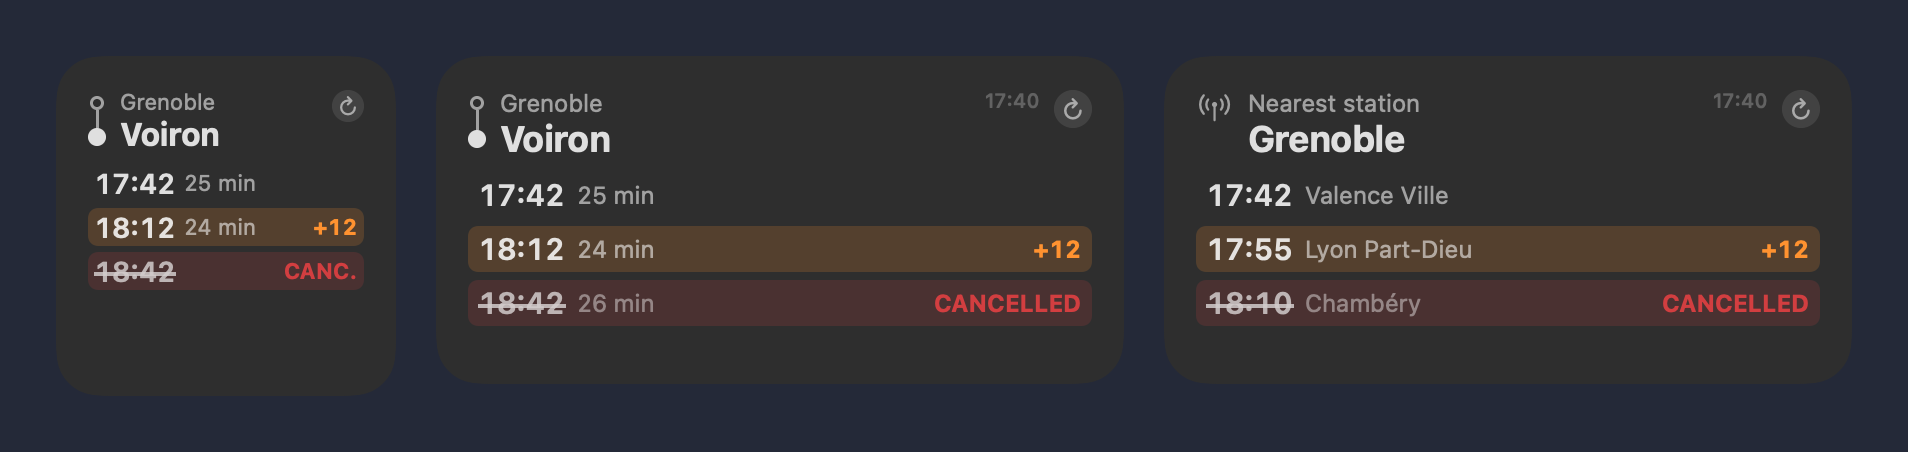
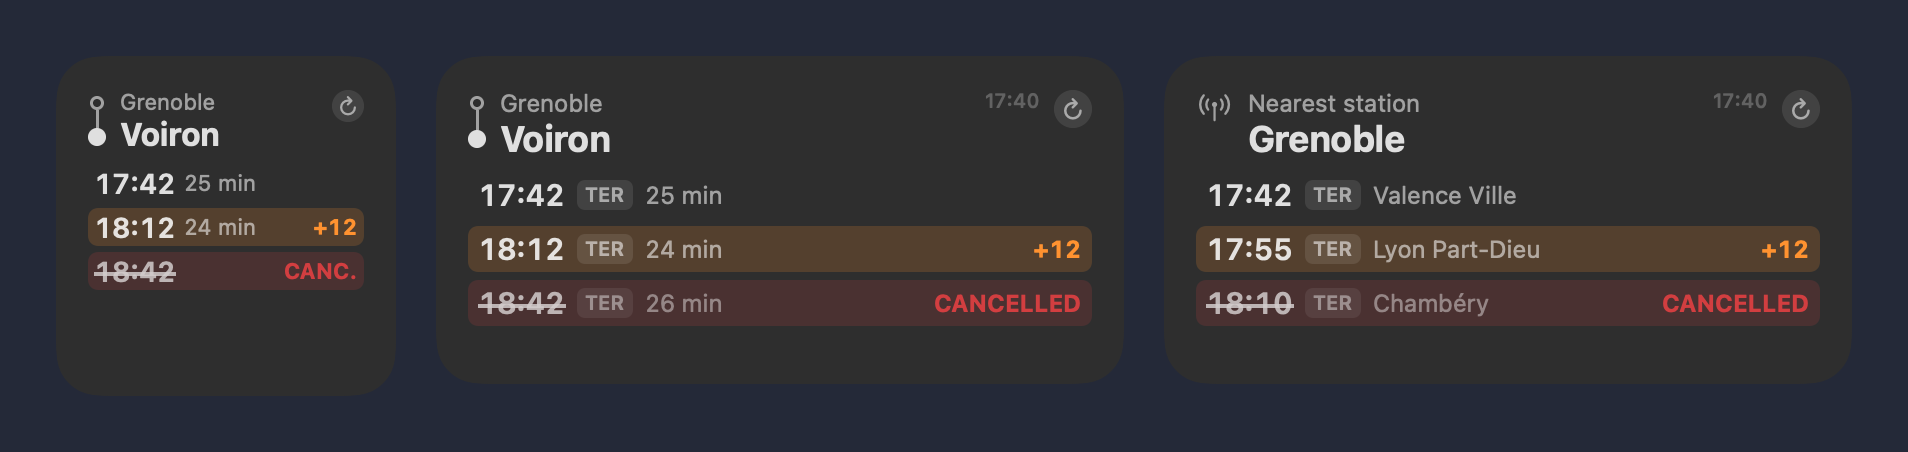
feat: name the service of each train on medium and large widgets
The same pair of stations is served by several kinds of train, and knowing
whether the next one is a TER or a TGV changes what you do with it. The small
widget keeps its width for the times.

The label cannot come from one field. On a real station board SNCF answers
`commercial_mode: "REGIONAURA"` for every TER — each region has its own brand
code — and `TGV INOUI` for the national ones, while `physical_mode` holds the
family: "TER / Intercités", "Train grande vitesse", "Car TER". So the brand is
read first when it is a national one (OUIGO, TGV, Intercités, Eurostar, Lyria,
TER) and the family finishes the job otherwise.

A coach replacing a train is labelled Car, never TER: "Car TER" contains both
words and saying TER would hide the substitution. Regional services running on
high-speed stock come out as TGV, which is what the platform board says too.

The board fixture now carries the real mix of modes rather than a tidy one.

diff --git a/Design/Screenshots/Sources/Screenshots/main.swift b/Design/Screenshots/Sources/Screenshots/main.swift
@@ -14,28 +14,28 @@ let grenoble = Station(id: "a", name: "Grenoble", latitude: 0, longitude: 0)
 let voiron = Station(id: "b", name: "Voiron", latitude: 0, longitude: 0)
 let now = at(17, 40)
 
-func train(_ h: Int, _ m: Int, _ duration: Int, delay: Int? = 0, cancelled: Bool = false) -> TrainDeparture {
+func train(_ h: Int, _ m: Int, _ duration: Int, delay: Int? = 0, cancelled: Bool = false, mode: String = "TER") -> TrainDeparture {
     TrainDeparture(scheduledDeparture: at(h, m), scheduledArrival: at(h, m).addingTimeInterval(TimeInterval(duration * 60)),
-                   delayMinutes: delay, isCancelled: cancelled, trainNumber: nil)
+                   mode: mode, delayMinutes: delay, isCancelled: cancelled, trainNumber: nil)
 }
 
 let trains = [
     train(17, 42, 25), train(18, 12, 24, delay: 12), train(18, 42, 26, cancelled: true),
-    train(19, 12, 25, delay: 23), train(19, 42, 25), train(20, 12, 24), train(20, 42, 26), train(21, 12, 25),
+    train(19, 12, 25, delay: 23), train(19, 42, 25, mode: "TGV"), train(20, 12, 24), train(20, 42, 26), train(21, 12, 25),
 ]
 let normal = DeparturesEntry(date: now, fetchedAt: now, board: .trip(Leg(from: grenoble, to: voiron)), state: .departures(trains))
 let noService = DeparturesEntry(date: now, fetchedAt: now, board: .trip(Leg(from: grenoble, to: voiron)), state: .noService)
 let lateNight = at(23, 40)
 let endOfService = DeparturesEntry(date: lateNight, fetchedAt: lateNight, board: .trip(Leg(from: grenoble, to: voiron)), state: .endOfService(firstTrain: at(5, 58).addingTimeInterval(86400)))
 
-func radarTrain(_ h: Int, _ m: Int, _ direction: String, delay: Int? = 0, cancelled: Bool = false) -> TrainDeparture {
-    TrainDeparture(scheduledDeparture: at(h, m), direction: direction, delayMinutes: delay, isCancelled: cancelled, trainNumber: nil)
+func radarTrain(_ h: Int, _ m: Int, _ direction: String, delay: Int? = 0, cancelled: Bool = false, mode: String = "TER") -> TrainDeparture {
+    TrainDeparture(scheduledDeparture: at(h, m), direction: direction, mode: mode, delayMinutes: delay, isCancelled: cancelled, trainNumber: nil)
 }
 
 let radar = DeparturesEntry(date: now, fetchedAt: now, board: .radar(grenoble), state: .departures([
     radarTrain(17, 42, "Valence Ville"), radarTrain(17, 55, "Lyon Part-Dieu", delay: 12),
-    radarTrain(18, 10, "Chambéry", cancelled: true), radarTrain(18, 24, "Annecy"),
-    radarTrain(18, 40, "Gap"), radarTrain(19, 02, "Lyon Perrache", delay: 23),
+    radarTrain(18, 10, "Chambéry", cancelled: true), radarTrain(18, 24, "Annecy", mode: "TGV"),
+    radarTrain(18, 40, "Gap", mode: "Car"), radarTrain(19, 02, "Lyon Perrache", delay: 23),
 ]))
 
 func size(_ family: WidgetFamily) -> CGSize {

diff --git a/SNCFCore/Sources/SNCFCore/NavitiaParser.swift b/SNCFCore/Sources/SNCFCore/NavitiaParser.swift
@@ -87,6 +87,7 @@ public enum NavitiaParser {
         return TrainDeparture(
             scheduledDeparture: departure,
             scheduledArrival: arrival,
+            mode: mode(commercial: info?.commercialMode, physical: info?.physicalMode),
             delayMinutes: delay(at: originStop, significantDelays: journey.status == "SIGNIFICANT_DELAYS"),
             isCancelled: cancelled,
             trainNumber: info?.tripShortName ?? info?.headsign
@@ -105,10 +106,29 @@ public enum NavitiaParser {
         return TrainDeparture(
             scheduledDeparture: departure,
             direction: info?.direction,
+            mode: mode(commercial: info?.commercialMode, physical: info?.physicalMode),
             delayMinutes: delay(at: stop, significantDelays: linked.contains { $0.severity?.effect == "SIGNIFICANT_DELAYS" }),
             isCancelled: isCancelled(linked, at: stop),
             trainNumber: info?.tripShortName ?? info?.headsign
         )
+    }
+
+    /// SNCF answers with the commercial brand, which is a regional code for every TER
+    /// ("REGIONAURA", "TERGV"…), and with a normalised physical mode ("TER / Intercités",
+    /// "Train grande vitesse"). Neither is presentable on its own, so they are read in order
+    /// of what a traveller actually looks for: the national brand first, the family second.
+    static func mode(commercial: String?, physical: String?) -> String? {
+        let brand = (commercial ?? "").uppercased()
+        let family = (physical ?? "").folding(options: .diacriticInsensitive, locale: .init(identifier: "fr_FR")).uppercased()
+        for (needle, label) in [("OUIGO", "OUIGO"), ("TGV", "TGV"), ("INTERCIT", "Intercités"), ("EUROSTAR", "Eurostar"), ("LYRIA", "Lyria"), ("TER", "TER")] where brand.contains(needle) {
+            return label
+        }
+        // "Car TER" is a coach replacing a train, and saying "TER" would hide that, so road first.
+        if family.contains("CAR") || family.contains("BUS") { return "Car" }
+        if family.contains("TER") { return "TER" }
+        if family.contains("GRANDE VITESSE") { return "TGV" }
+        if family.contains("INTERCIT") { return "Intercités" }
+        return commercial?.isEmpty == false ? commercial : physical
     }
 
     static func byID(_ disruptions: [Disruption]?) -> [String: Disruption] {
@@ -217,6 +237,8 @@ struct Coord: Decodable {
 }
 
 struct DisplayInformations: Decodable {
+    let commercialMode: String?
+    let physicalMode: String?
     let direction: String?
     let headsign: String?
     let tripShortName: String?

diff --git a/Widget/Provider.swift b/Widget/Provider.swift
@@ -186,14 +186,16 @@ extension DeparturesEntry {
     static func preview(_ board: Board) -> DeparturesEntry {
         let now = Date.now
         let directions = ["Valence Ville", "Lyon Part-Dieu", "Chambéry", "Annecy"]
-        let trains = zip([(8, 0, 25), (38, 12, 24), (68, 23, 26), (98, 0, 25)], directions).map { plan, direction in
+        let modes = ["TER", "TER", "TGV", "TER"]
+        let trains = zip([(8, 0, 25), (38, 12, 24), (68, 23, 26), (98, 0, 25)], zip(directions, modes)).map { plan, labels in
             let (offset, delay, duration) = plan
+            let (direction, mode) = labels
             let departure = now.addingTimeInterval(TimeInterval(offset * 60))
             if case .radar = board {
-                return TrainDeparture(scheduledDeparture: departure, direction: direction, delayMinutes: delay, isCancelled: false, trainNumber: nil)
+                return TrainDeparture(scheduledDeparture: departure, direction: direction, mode: mode, delayMinutes: delay, isCancelled: false, trainNumber: nil)
             }
             return TrainDeparture(scheduledDeparture: departure, scheduledArrival: departure.addingTimeInterval(TimeInterval(duration * 60)),
-                                  delayMinutes: delay, isCancelled: false, trainNumber: nil)
+                                  mode: mode, delayMinutes: delay, isCancelled: false, trainNumber: nil)
         }
         return DeparturesEntry(date: now, fetchedAt: now, board: board, state: .departures(trains))
     }

diff --git a/SNCFCore/Sources/SNCFCore/Models.swift b/SNCFCore/Sources/SNCFCore/Models.swift
@@ -41,15 +41,18 @@ public struct TrainDeparture: Hashable, Codable, Sendable {
     public let scheduledArrival: Date?
     /// Headsign of the train's final stop; nil for a journey, where the arrival is known instead.
     public let direction: String?
+    /// Short service name: TER, TGV, OUIGO, Intercités… See `NavitiaParser.mode(commercial:physical:)`.
+    public let mode: String?
     /// nil when SNCF signals a disruption without an amended time.
     public let delayMinutes: Int?
     public let isCancelled: Bool
     public let trainNumber: String?
 
-    public init(scheduledDeparture: Date, scheduledArrival: Date? = nil, direction: String? = nil, delayMinutes: Int?, isCancelled: Bool, trainNumber: String?) {
+    public init(scheduledDeparture: Date, scheduledArrival: Date? = nil, direction: String? = nil, mode: String? = nil, delayMinutes: Int?, isCancelled: Bool, trainNumber: String?) {
         self.scheduledDeparture = scheduledDeparture
         self.scheduledArrival = scheduledArrival
         self.direction = direction
+        self.mode = mode
         self.delayMinutes = delayMinutes
         self.isCancelled = isCancelled
         self.trainNumber = trainNumber

diff --git a/Widget/DeparturesWidget.swift b/Widget/DeparturesWidget.swift
@@ -354,6 +354,18 @@ struct DepartureRow: View {
                 .font(.system(size: compact ? 14 : 15, weight: .semibold).monospacedDigit())
                 .strikethrough(train.isCancelled)
                 .fixedSize()
+            // Which service runs it: the same journey can be a TER one hour and a TGV the next.
+            // Only where there is room for it; the small widget needs its width for the times.
+            if !compact, let mode = train.mode {
+                Text(mode)
+                    .font(.system(size: 10, weight: .semibold))
+                    .foregroundStyle(.secondary)
+                    .lineLimit(1)
+                    .fixedSize()
+                    .padding(.horizontal, 4)
+                    .padding(.vertical, 1)
+                    .background(.quaternary, in: RoundedRectangle(cornerRadius: 4))
+            }
             if !compact || !train.isCancelled {
                 // A journey knows how long it takes; a station board knows where the train goes.
                 if let duration = train.duration {

diff --git a/SNCFCore/Tests/SNCFCoreTests/SNCFCoreTests.swift b/SNCFCore/Tests/SNCFCoreTests/SNCFCoreTests.swift
@@ -144,6 +144,17 @@ func fixture(_ name: String) throws -> Data {
         #expect(board[3].status == .unknown)
     }
 
+    /// SNCF names every TER after its region ("REGIONAURA"), so the brand alone is unreadable
+    /// and the physical mode has to finish the job.
+    @Test func serviceNamesAreReadable() throws {
+        let board = try NavitiaParser.stopDepartures(from: fixture("stop_departures"))
+        #expect(board.map(\.mode) == ["TER", "TGV", "TGV", "Car"])
+        #expect(try mixed().allSatisfy { $0.mode == "TER" })
+        #expect(NavitiaParser.mode(commercial: "OUIGO", physical: "Train grande vitesse") == "OUIGO")
+        #expect(NavitiaParser.mode(commercial: "INTERCITES", physical: "TER / Intercités") == "Intercités")
+        #expect(NavitiaParser.mode(commercial: nil, physical: nil) == nil)
+    }
+
     @Test func nearbySearchKeepsStopAreasInDistanceOrder() throws {
         #expect(try NavitiaParser.nearbyStations(from: fixture("places_nearby")) == [grenoble, voiron])
     }

diff --git a/README.md b/README.md
@@ -81,7 +81,7 @@ scripts/    install.sh (build + install), render-screenshots.sh
 
 ## Display
 
-**Rows** show the scheduled time, then the journey duration (Trip) or the train's direction (Radar), and a status:
+**Rows** show the scheduled time, the service on medium and large widgets (TER, TGV, OUIGO, Intercités, Car — SNCF names every TER after its region, so the label comes from the brand when it is a national one and from the physical mode otherwise), then the journey duration (Trip) or the train's direction (Radar), and a status:
 
 | Status | Row style | Badge |
 |---|---|---|
@@ -119,6 +119,7 @@ The API is Navitia-based. Docs: <https://doc.navitia.io>. Authentication is HTTP
 
 - `journeys[].status`: `NO_SERVICE` or `SIGNIFICANT_DELAYS`. A station board has no such field, so the severity of the linked disruption plays that role.
 - `departures[].stop_date_time.base_departure_time` and `departures[].display_informations.direction`, for the Radar board.
+- `display_informations.commercial_mode` and `physical_mode`, reduced to a short service name by `NavitiaParser.mode(commercial:physical:)`. A coach replacing a train ("Car TER") is labelled Car, never TER.
 - `disruptions[].severity.effect`, for disruptions linked from `sections[].display_informations.links[]`.
 - `impacted_stops[]`, matched on the origin and destination stop points:
   - `base_departure_time` and `amended_departure_time` give the delay;
@@ -131,7 +132,7 @@ The API is Navitia-based. Docs: <https://doc.navitia.io>. Authentication is HTTP
 - **One reload, one SNCF request** (two for Radar: the station, then its board). The timeline then holds:
   - an entry just after each departure, so departed trains drop off — for every train fetched, which keeps the widget right for hours when no reload is granted;
   - an entry at +30 min that turns the timestamp orange, because the delays are no longer trustworthy.
-- **A refresh button sits in the header**, a `Button(intent:)` running `RefreshIntent`. App-requested reloads are served immediately, unlike the system's own schedule, so one click gives fresh delays the moment you open Notification Center. It reloads twice: the first pass redraws the widget's last board, kept in the App Group, faded and labelled "Updating…" — a widget only ever draws what a timeline gave it, so that is the only way a click can show anything before the network answers — and the second pass fetches. Both the request and the cache are keyed by widget kind and configuration, so a widget's button only ever refreshes itself.
+- **A refresh button sits in the header**, a `Button(intent:)` running `RefreshIntent`, which calls `WidgetCenter.reloadAllTimelines()`. App-requested reloads are served immediately, unlike the system's own schedule, so one click gives fresh delays the moment you open Notification Center.
 - **Reloads are asked for when they matter, not on a fixed interval.** WidgetKit grants roughly 40–70 reloads per widget per day; spending them uniformly means spending them at 3 a.m. and running out during the evening rush. So the next reload is asked for 5 min before the next train leaves, with two bounds: never closer than 20 min (`RefreshPlanner.minimumGap`, the budget knob — a train every quarter of an hour therefore costs 3 reloads an hour, not 4) and never further than 60 min. After the last train, a single reload is asked for just before the first train of the next service day, instead of polling all night. Errors are retried after 15 min. The Trip widget also reloads at the automatic switch time.
 - **One fetch covers hours**, not minutes: 12 journeys for Trip, 20 departures for Radar. A refused reload then costs an orange timestamp, not an empty widget.
 - **The system decides when reloads actually happen.** Widgets get a limited daily reload budget, and reloads come late when the Mac sleeps or the widget isn't visible. Delays can therefore be 15–30 min old. This is not a live departure board: the header shows when the data was fetched.
@@ -143,7 +144,7 @@ The API is Navitia-based. Docs: <https://doc.navitia.io>. Authentication is HTTP
 cd SNCFCore && swift test
 ```
 
-The 39 tests make no live API calls. They cover:
+The 40 tests make no live API calls. They cover:
 - **Direction:** fixed, reversed, automatic around 13:00, custom switch time.
 - **Nearest station:** nearer to A, nearer to B, a tie, no location, and location overriding the configured order.
 - **Delay bands:** 0, 5, 10, 11, 19, 20 and 21 min, cancellation, unknown delay.

diff --git a/CHANGELOG.md b/CHANGELOG.md
@@ -11,6 +11,9 @@ All notable changes to this project are documented here. The format follows [Kee
 - `scripts/render-screenshots.sh` regenerates the README, guide and social images from the real widget views.
 - Issue and pull request templates, contributing guide.
 
+### Added
+- Medium and large widgets name the service of each train — TER, TGV, OUIGO, Intercités, or Car when a coach replaces it.
+
 ### Fixed
 - The widget never got a position. Reading `CLLocationManager().authorizationStatus` off a throwaway manager answers `.notDetermined` until locationd replies, so an authorized widget decided it had no permission and gave up without asking. There is now one long-lived location client per process, the status is kept by its delegate, and a fix is attempted whatever the status says — it only names the failure.
 - Asking for the permission is not asking for a position either, so the system often had nothing cached and the widget's attempt started from cold. The host app now takes a fix at launch and shows what it found, and the widget waits up to 12 s, falling back to an older fix rather than to nothing.
